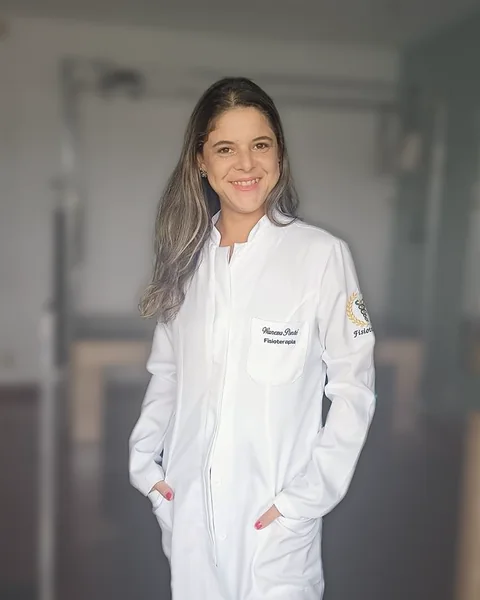
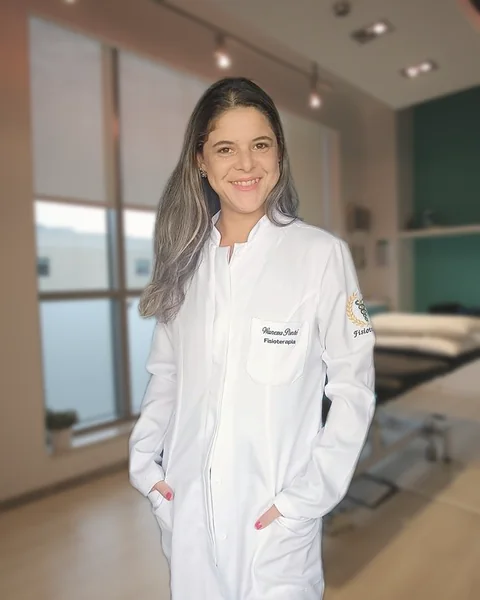
Foto sobre sala de fisioterapia, só particular, pós-graduação e naturalidade
- Abertura: Wanessa sobre foto de sala com maca (Unsplash, licença livre,
  escolhida pelo Cyr entre três), com a cor do ambiente aplicada nela.
- FAQ nova: não atende convênio, só particular (e no JSON-LD).
- Pós-graduação em Traumato-Ortopedia com ênfase em Terapias Manuais,
  descrita como em andamento.
- Natural de Juiz de Fora, com autorização dela.
- Sai a data de início (05/10) de toda a página, a pedido do Cyr.

diff --git a/index.html b/index.html
@@ -58,8 +58,7 @@
       "https://schema.org/Wednesday"
      ],
      "opens": "13:00",
-     "closes": "18:00",
-     "validFrom": "2026-10-05"
+     "closes": "18:00"
     }
    ],
    "sameAs": [
@@ -100,8 +99,21 @@
       "@type": "Organization",
       "name": "Conselho Regional de Fisioterapia e Terapia Ocupacional da 4ª Região"
      }
+    },
+    "knowsAbout": [
+     "Fisioterapia traumato-ortopédica",
+     "Terapias manuais",
+     "Reeducação Postural Global (RPG)",
+     "Liberação miofascial",
+     "Dry needling",
+     "Disfunção temporomandibular (DTM)"
+    ],
+    "birthPlace": {
+     "@type": "City",
+     "name": "Juiz de Fora"
     }
-   }
+   },
+   "paymentAccepted": "Atendimento particular"
   },
   {
    "@type": "WebSite",
@@ -119,7 +131,15 @@
      "name": "Preciso de pedido médico para fazer fisioterapia?",
      "acceptedAnswer": {
       "@type": "Answer",
-      "text": "Para atendimento particular, não. O fisioterapeuta pode avaliar e indicar o tratamento por conta própria, e isso é reconhecido por lei. Se você for usar plano de saúde, confira com ele, porque alguns planos pedem o encaminhamento. E se tiver exame ou relatório médico, traga: ajuda bastante na avaliação."
+      "text": "Não. O fisioterapeuta pode avaliar e indicar o tratamento por conta própria, e isso é reconhecido por lei. Se você tiver exame ou relatório médico, traga: ajuda bastante na avaliação."
+     }
+    },
+    {
+     "@type": "Question",
+     "name": "Você atende Unimed ou outro plano de saúde?",
+     "acceptedAnswer": {
+      "@type": "Answer",
+      "text": "Não. O atendimento é só particular. Se quiser saber o valor da sessão, é só me perguntar no WhatsApp."
      }
     },
     {
@@ -589,7 +609,7 @@ h1 .sup{display:flex; line-height:1.4; margin-bottom:20px}
   <div class="env">
     <div>
       <h1 class="rv" style="--d:40ms"><span class="sup">Fisioterapeuta em Juiz de Fora</span> Para quem já cansou de <span class="destaque">conviver com dor.</span></h1>
-      <p class="lead rv" style="--d:120ms">Eu sou a Wanessa. Atendo com hora marcada, nas tardes de segunda e quarta, e a primeira sessão é para entender o seu caso com calma: onde dói, desde quando, o que melhora e o que piora.</p>
+      <p class="lead rv" style="--d:120ms">Eu sou a Wanessa, fisioterapeuta aqui de Juiz de Fora. Atendo com hora marcada, nas tardes de segunda e quarta, e a primeira sessão é para entender o seu caso com calma: onde dói, desde quando, o que melhora e o que piora.</p>
       <div class="acoes rv" style="--d:180ms">
         <a class="bt" href="#agendar" data-cta="heroi">
           <svg viewBox="0 0 24 24" fill="none" stroke="currentColor" stroke-width="1.8" stroke-linecap="round" stroke-linejoin="round" aria-hidden="true"><path d="M21 11.5a8.4 8.4 0 0 1-9 8.4 8.5 8.5 0 0 1-3.9-.9L3 20.5l1.6-4.8A8.4 8.4 0 0 1 3.6 11 8.5 8.5 0 0 1 12 2.6a8.4 8.4 0 0 1 9 8.9z"/></svg>
@@ -612,11 +632,11 @@ h1 .sup{display:flex; line-height:1.4; margin-bottom:20px}
       <div class="arco">
         <img src="heroi-720.webp" srcset="heroi-480.webp 480w, heroi-720.webp 720w" sizes="(min-width: 900px) 440px, 88vw"
              width="720" height="900" fetchpriority="high" decoding="async"
-             alt="Wanessa Ponté, fisioterapeuta em Juiz de Fora, de jaleco branco com o nome bordado, sorrindo">
+             alt="Wanessa Ponté, fisioterapeuta em Juiz de Fora, de jaleco branco com o nome bordado, sorrindo, com uma sala de fisioterapia ao fundo">
       </div>
       <div class="cartao-vidro">
         <span class="ic"><svg viewBox="0 0 24 24" fill="none" stroke-width="1.8" stroke-linecap="round" stroke-linejoin="round" aria-hidden="true"><rect x="3" y="5" width="18" height="16" rx="3"/><path d="M16 3v4M8 3v4M3 11h18"/></svg></span>
-        <span><b>Seg e Qua · 13h às 18h</b><small>Agenda a partir de 5 de outubro</small></span>
+        <span><b>Seg e Qua · 13h às 18h</b><small>Atendimento particular, com hora marcada</small></span>
       </div>
     </figure>
   </div>
@@ -683,7 +703,7 @@ h1 .sup{display:flex; line-height:1.4; margin-bottom:20px}
         </svg></div>
         <div>
           <h3>Fisioterapia ortopédica e pós-operatória</h3>
-          <p>Para quem passou por cirurgia, teve fratura, entorse ou alguma lesão no joelho, no ombro, na coluna ou no tornozelo. O trabalho é recuperar movimento, força e segurança para voltar à rotina, no ritmo que o seu corpo permite.</p>
+          <p>Para quem passou por cirurgia, teve fratura, entorse ou alguma lesão no joelho, no ombro, na coluna ou no tornozelo. O trabalho é recuperar movimento, força e segurança para voltar à rotina, no ritmo que o seu corpo permite. É a área da minha pós-graduação, com ênfase em terapias manuais.</p>
           <span class="etq">Joelho · ombro · coluna · tornozelo</span>
         </div>
       </article>
@@ -762,11 +782,7 @@ h1 .sup{display:flex; line-height:1.4; margin-bottom:20px}
     <div>
       <p class="sup rv">Horários de atendimento</p>
       <h2 class="rv" style="--d:60ms">Duas tardes por semana, <span class="destaque">com hora marcada.</span></h2>
-      <p class="lead rv" style="--d:120ms;margin-top:22px">Atendo às segundas e quartas, das 13h às 18h. São poucos horários, então vale reservar com um pouco de antecedência.</p>
-      <div class="inicio rv" style="--d:180ms">
-        <span class="d"><strong>05</strong><small>out</small></span>
-        <span><b>A agenda abre em 5 de outubro de 2026</b><br><span style="font-size:14px;color:var(--tx2)">Você já pode pedir o seu horário.</span></span>
-      </div>
+      <p class="lead rv" style="--d:120ms;margin-top:22px">Atendimento particular, às segundas e quartas, das 13h às 18h. São poucos horários, então vale reservar com um pouco de antecedência.</p>
     </div>
 
     <div class="semana rv" style="--d:100ms" role="img" aria-label="Semana de atendimento: segunda-feira e quarta-feira, das 13h às 18h. Nos outros dias não há atendimento.">
@@ -807,7 +823,7 @@ h1 .sup{display:flex; line-height:1.4; margin-bottom:20px}
     <div>
       <p class="sup rv">Quem atende</p>
       <h2 class="rv" style="--d:60ms">Prazer, <span class="destaque">Wanessa Ponté.</span></h2>
-      <p class="lead rv" style="--d:120ms;margin-top:22px;color:rgba(47,51,40,.82)">Sou fisioterapeuta, com registro no Conselho Regional de Fisioterapia e Terapia Ocupacional da 4ª Região, e atendo em Juiz de Fora.</p>
+      <p class="lead rv" style="--d:120ms;margin-top:22px;color:rgba(47,51,40,.82)">Sou fisioterapeuta e nasci em Juiz de Fora, a cidade onde atendo. Tenho registro no Conselho Regional de Fisioterapia e Terapia Ocupacional da 4ª Região e faço pós-graduação em Traumato-Ortopedia com ênfase em Terapias Manuais.</p>
       <p class="rv" style="--d:180ms;color:rgba(47,51,40,.82)">Trabalho com fisioterapia ortopédica e pós-operatória, RPG, liberação miofascial, dry needling e DTM. Cada plano começa pela rotina de quem está na minha frente, e não só pelo sintoma daquele dia.</p>
     </div>
     <div class="registro rv" style="--d:120ms">
@@ -815,7 +831,8 @@ h1 .sup{display:flex; line-height:1.4; margin-bottom:20px}
       <span class="rot">Registro profissional</span>
       <b>Wanessa Cristina<br>Ponte Souza</b>
       <span class="crefito">Fisioterapeuta · CREFITO-4 445257-F</span>
-      <p>O número pode ser conferido no Conselho Regional de Fisioterapia e Terapia Ocupacional da 4ª Região.</p>
+      <p>Pós-graduação em Traumato-Ortopedia com ênfase em Terapias Manuais, em andamento.</p>
+      <p style="margin-top:10px">O número de registro pode ser conferido no Conselho Regional de Fisioterapia e Terapia Ocupacional da 4ª Região.</p>
     </div>
   </div>
 </section>
@@ -833,7 +850,7 @@ h1 .sup{display:flex; line-height:1.4; margin-bottom:20px}
         <small>Endereço</small><span>Santo Antônio, 990 · 1303<br>Juiz de Fora · MG</span>
         <a href="https://www.google.com/maps/search/?api=1&amp;query=Santo%20Ant%C3%B4nio%2C%20990%2C%20Juiz%20de%20Fora%20-%20MG" target="_blank" rel="noopener">Abrir no mapa</a></li>
       <li class="rv" style="--d:70ms"><span class="ic"><svg viewBox="0 0 24 24" aria-hidden="true"><rect x="3" y="5" width="18" height="16" rx="3"/><path d="M16 3v4M8 3v4M3 11h18"/></svg></span>
-        <small>Dias de atendimento</small><span>Segundas e quartas, das 13h às 18h<br>A partir de 5 de outubro de 2026</span></li>
+        <small>Dias de atendimento</small><span>Segundas e quartas, das 13h às 18h<br>Atendimento particular</span></li>
       <li class="rv"><span class="ic"><svg viewBox="0 0 24 24" aria-hidden="true"><path d="M21 11.5a8.4 8.4 0 0 1-9 8.4 8.5 8.5 0 0 1-3.9-.9L3 20.5l1.6-4.8A8.4 8.4 0 0 1 3.6 11 8.5 8.5 0 0 1 12 2.6a8.4 8.4 0 0 1 9 8.9z"/></svg></span>
         <small>WhatsApp</small><a href="https://wa.me/5532988099921" data-cta="contato">(32) 98809-9921</a></li>
       <li class="rv" style="--d:70ms"><span class="ic"><svg viewBox="0 0 24 24" aria-hidden="true"><rect x="3" y="3" width="18" height="18" rx="5"/><circle cx="12" cy="12" r="4"/><circle cx="17.4" cy="6.6" r="1" fill="currentColor"/></svg></span>
@@ -851,7 +868,9 @@ h1 .sup{display:flex; line-height:1.4; margin-bottom:20px}
     </div>
     <div class="faq">
       <details class="rv"><summary>Preciso de pedido médico para fazer fisioterapia?</summary>
-        <div><p>Para atendimento particular, não. O fisioterapeuta pode avaliar e indicar o tratamento por conta própria, e isso é reconhecido por lei. Se você for usar plano de saúde, confira com ele, porque alguns planos pedem o encaminhamento. E se tiver exame ou relatório médico, traga: ajuda bastante na avaliação.</p></div></details>
+        <div><p>Não. O fisioterapeuta pode avaliar e indicar o tratamento por conta própria, e isso é reconhecido por lei. Se você tiver exame ou relatório médico, traga: ajuda bastante na avaliação.</p></div></details>
+      <details class="rv"><summary>Você atende Unimed ou outro plano de saúde?</summary>
+        <div><p>Não. O atendimento é só particular. Se quiser saber o valor da sessão, é só me perguntar no WhatsApp.</p></div></details>
       <details class="rv"><summary>Quantas sessões vou precisar?</summary>
         <div><p>Depende do que aparecer na avaliação: o tipo de problema, há quanto tempo ele existe e como é a sua rotina. Na primeira sessão eu já explico o caminho que faz sentido, e a gente vai ajustando conforme você evolui.</p></div></details>
       <details class="rv"><summary>Dry needling dói?</summary>
@@ -876,7 +895,7 @@ h1 .sup{display:flex; line-height:1.4; margin-bottom:20px}
       <ul class="garantias">
         <li class="rv" style="--d:160ms"><svg viewBox="0 0 24 24" fill="none" stroke-width="1.8" stroke-linecap="round" stroke-linejoin="round" aria-hidden="true"><path d="M20 6 9 17l-5-5"/></svg>Nada fica gravado neste site.</li>
         <li class="rv" style="--d:220ms"><svg viewBox="0 0 24 24" fill="none" stroke-width="1.8" stroke-linecap="round" stroke-linejoin="round" aria-hidden="true"><path d="M20 6 9 17l-5-5"/></svg>Quem responde sou eu.</li>
-        <li class="rv" style="--d:280ms"><svg viewBox="0 0 24 24" fill="none" stroke-width="1.8" stroke-linecap="round" stroke-linejoin="round" aria-hidden="true"><path d="M20 6 9 17l-5-5"/></svg>Segundas e quartas, das 13h às 18h, a partir de 5 de outubro.</li>
+        <li class="rv" style="--d:280ms"><svg viewBox="0 0 24 24" fill="none" stroke-width="1.8" stroke-linecap="round" stroke-linejoin="round" aria-hidden="true"><path d="M20 6 9 17l-5-5"/></svg>Segundas e quartas, das 13h às 18h.</li>
       </ul>
     </div>
 
